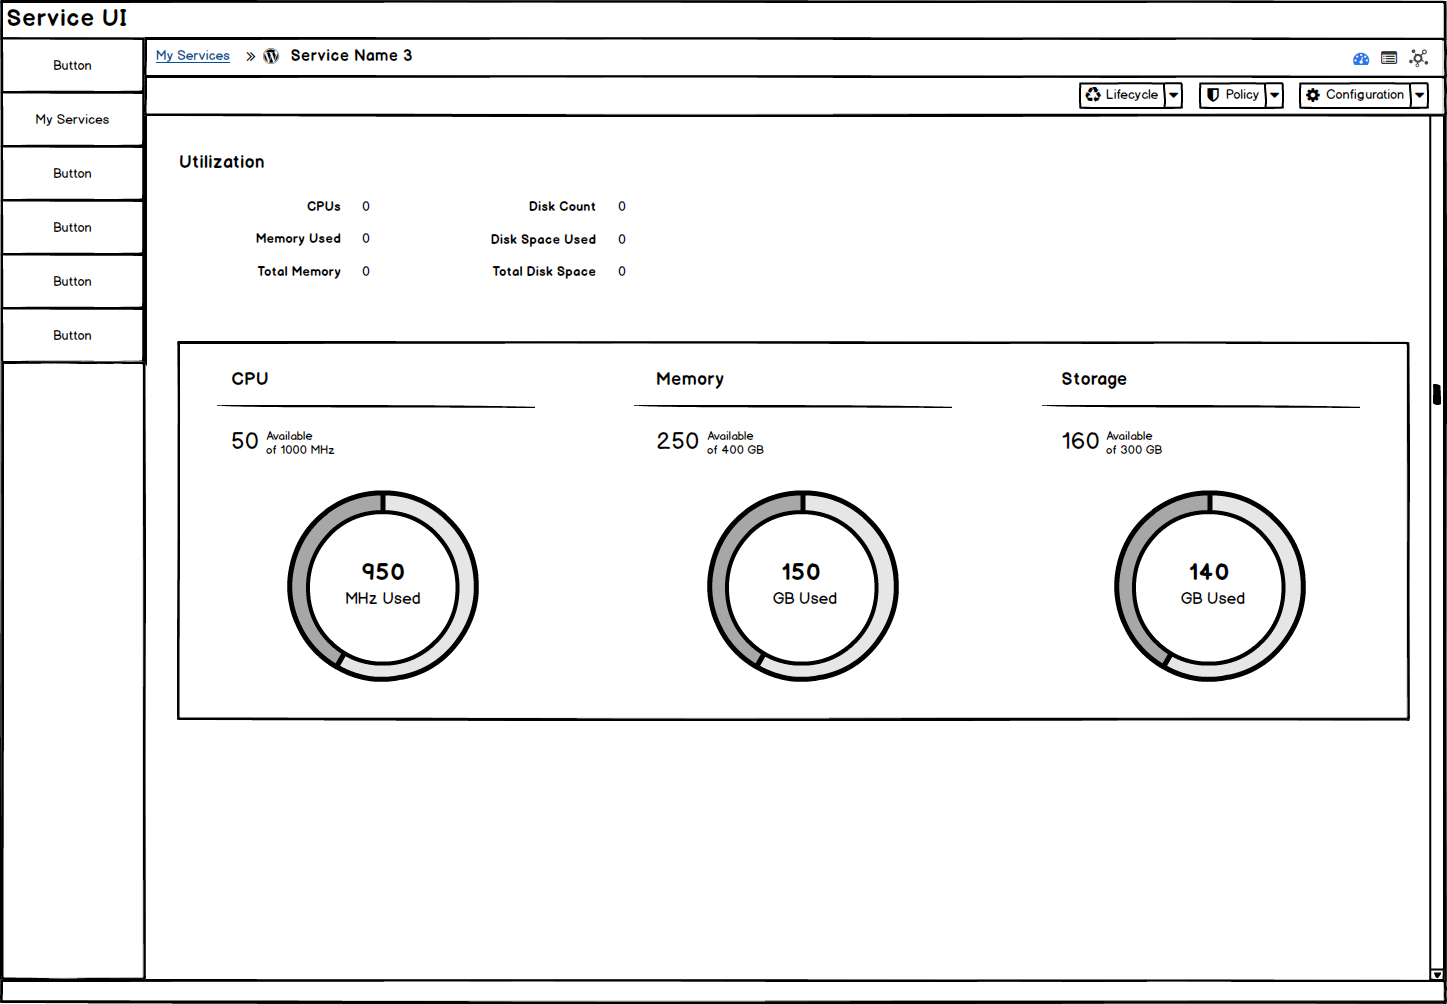
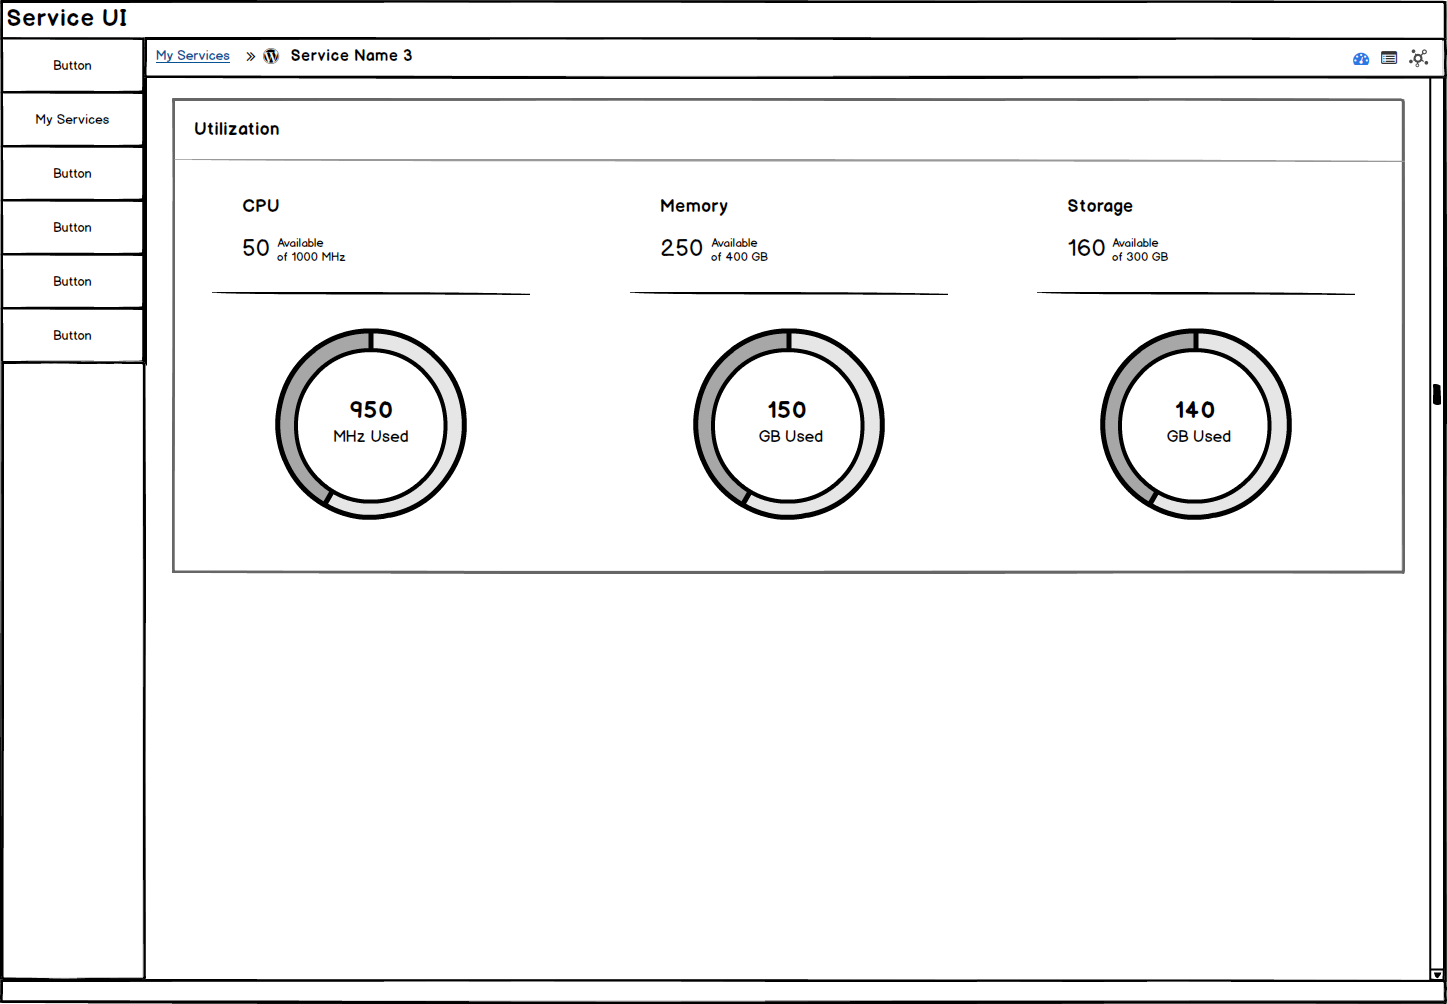
Changes to Dashboard view image

diff --git a/UX/ui-service/MyServices/design.md b/UX/ui-service/MyServices/design.md
@@ -14,7 +14,7 @@
 * The Service Names are links and will bring the user to a service details page.
 * Resources will be shown for legacy services when a VM, Network, or Storage resource exists. For Ansible services, the playbook name should appear for this column instead.
 * **Implementation Details:** Reference the Angular PatternFly Expandable List View Component.
-* **Research** Determine if the date should be called "Created" or "Ordered" in the list view.
+* **Research:** Determine if the date should be called "Created" or "Ordered" in the list view.
 
 ## List View - Expanded Row
 ![Image of Expanded List View.](img/Services-ExpandedListView.png)
@@ -41,7 +41,7 @@
 
 * Individual resources will be listed as links so users can drill down to a specific resource details view.
 ![Image of Detail View for a Resource.](img/Services-ResourceDetails.png)
-* **Research** Determine actions available for resources. Should these be listed within the standard button groups?
+* **Research:** Determine actions available for resources. Should these be listed within the standard button groups?
 * Relationships will be the next section after Resources. Child Services will be listed as links here and will bring the user to the Child Service Summary View.
 
 #### Service Details - Summary View - Ansible Services
@@ -56,8 +56,7 @@
 * The service details page will be in the same format as the Parent Service Detail page.
 
 ### Service Details - Dashboard View
-* The dashboard view will display all utilization properties at the top of the page, followed by a utilization trend card below.
-* The trend card will include donut charts to display the CPU, Memory, and Storage data.
+* The dashboard view will display a utilization trend card with the CPU, Memory, and Storage data.
 ![Image of Dashboard View for a Service.](img/Services-DashboardDetailView.png)
 
 ## Customer Feedback Received
